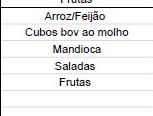
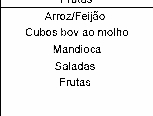
Update croper.js

diff --git a/consts.js b/consts.js
@@ -1,4 +1,4 @@
-module.exports.esperado = ['Cachorro quente','Arroz/Feijão', 'Frango ao molho','Saladas','Massa','Frutas','Frango á milanesa','Cubos bov ao molho','Suco','Macarrao ao sugo','Alface/Tomate','Pão/Biscoito/Aveia', 'Achocolatado em pó','Margarina/Nata','Margarina/Maionese/Nata','Café /Leite/ logurte','Linguiça/Queijo', 'Salame/Queijo', 'Doce de leite/Doce de fruta','Café /Leite/ iogurte','Strogonoft bov.'  ];
+module.exports.esperado = ['Cachorro quente','Arroz/Feijão', 'Frango ao molho','Saladas','Massa','Frutas','Frango á milanesa','Cubos bov ao molho','Suco','Macarrao ao sugo','Alface/Tomate','Pão/Biscoito/Aveia', 'Achocolatado em pó','Margarina/Nata','Margarina/Maionese/Nata','Café /Leite/ logurte','Linguiça/Queijo', 'Salame/Queijo', 'Doce de leite/Doce de fruta','Café /Leite/ iogurte','Strogonoft bov.', 'Mandioca', 'Carne suina assada'  ];
 module.exports.days = ['Segunda','Terça','Quarta','Quinta','Sexta'];
 module.exports.daysBrev = ['Seg','Ter','Qua','Qui','Sex'];
 

diff --git a/src/croper.js b/src/croper.js
@@ -19,7 +19,9 @@ const croop = (name, x, y, w) => new Promise((re,err) =>{
  Jimp.read('img/original/img.jpg', (err, img) => {
     if (err) throw err;
     img
-      .crop( x, y, 153, w )  
+      .crop( x, y, 153, w ) 
+      .contrast(1) 
+      .greyscale()
       .write(`img/croped/${name}.jpg`); // save
   })
   setTimeout(() => re(), 0) // é assim e é pq é, se não acredita em mim tira e veja o erro
